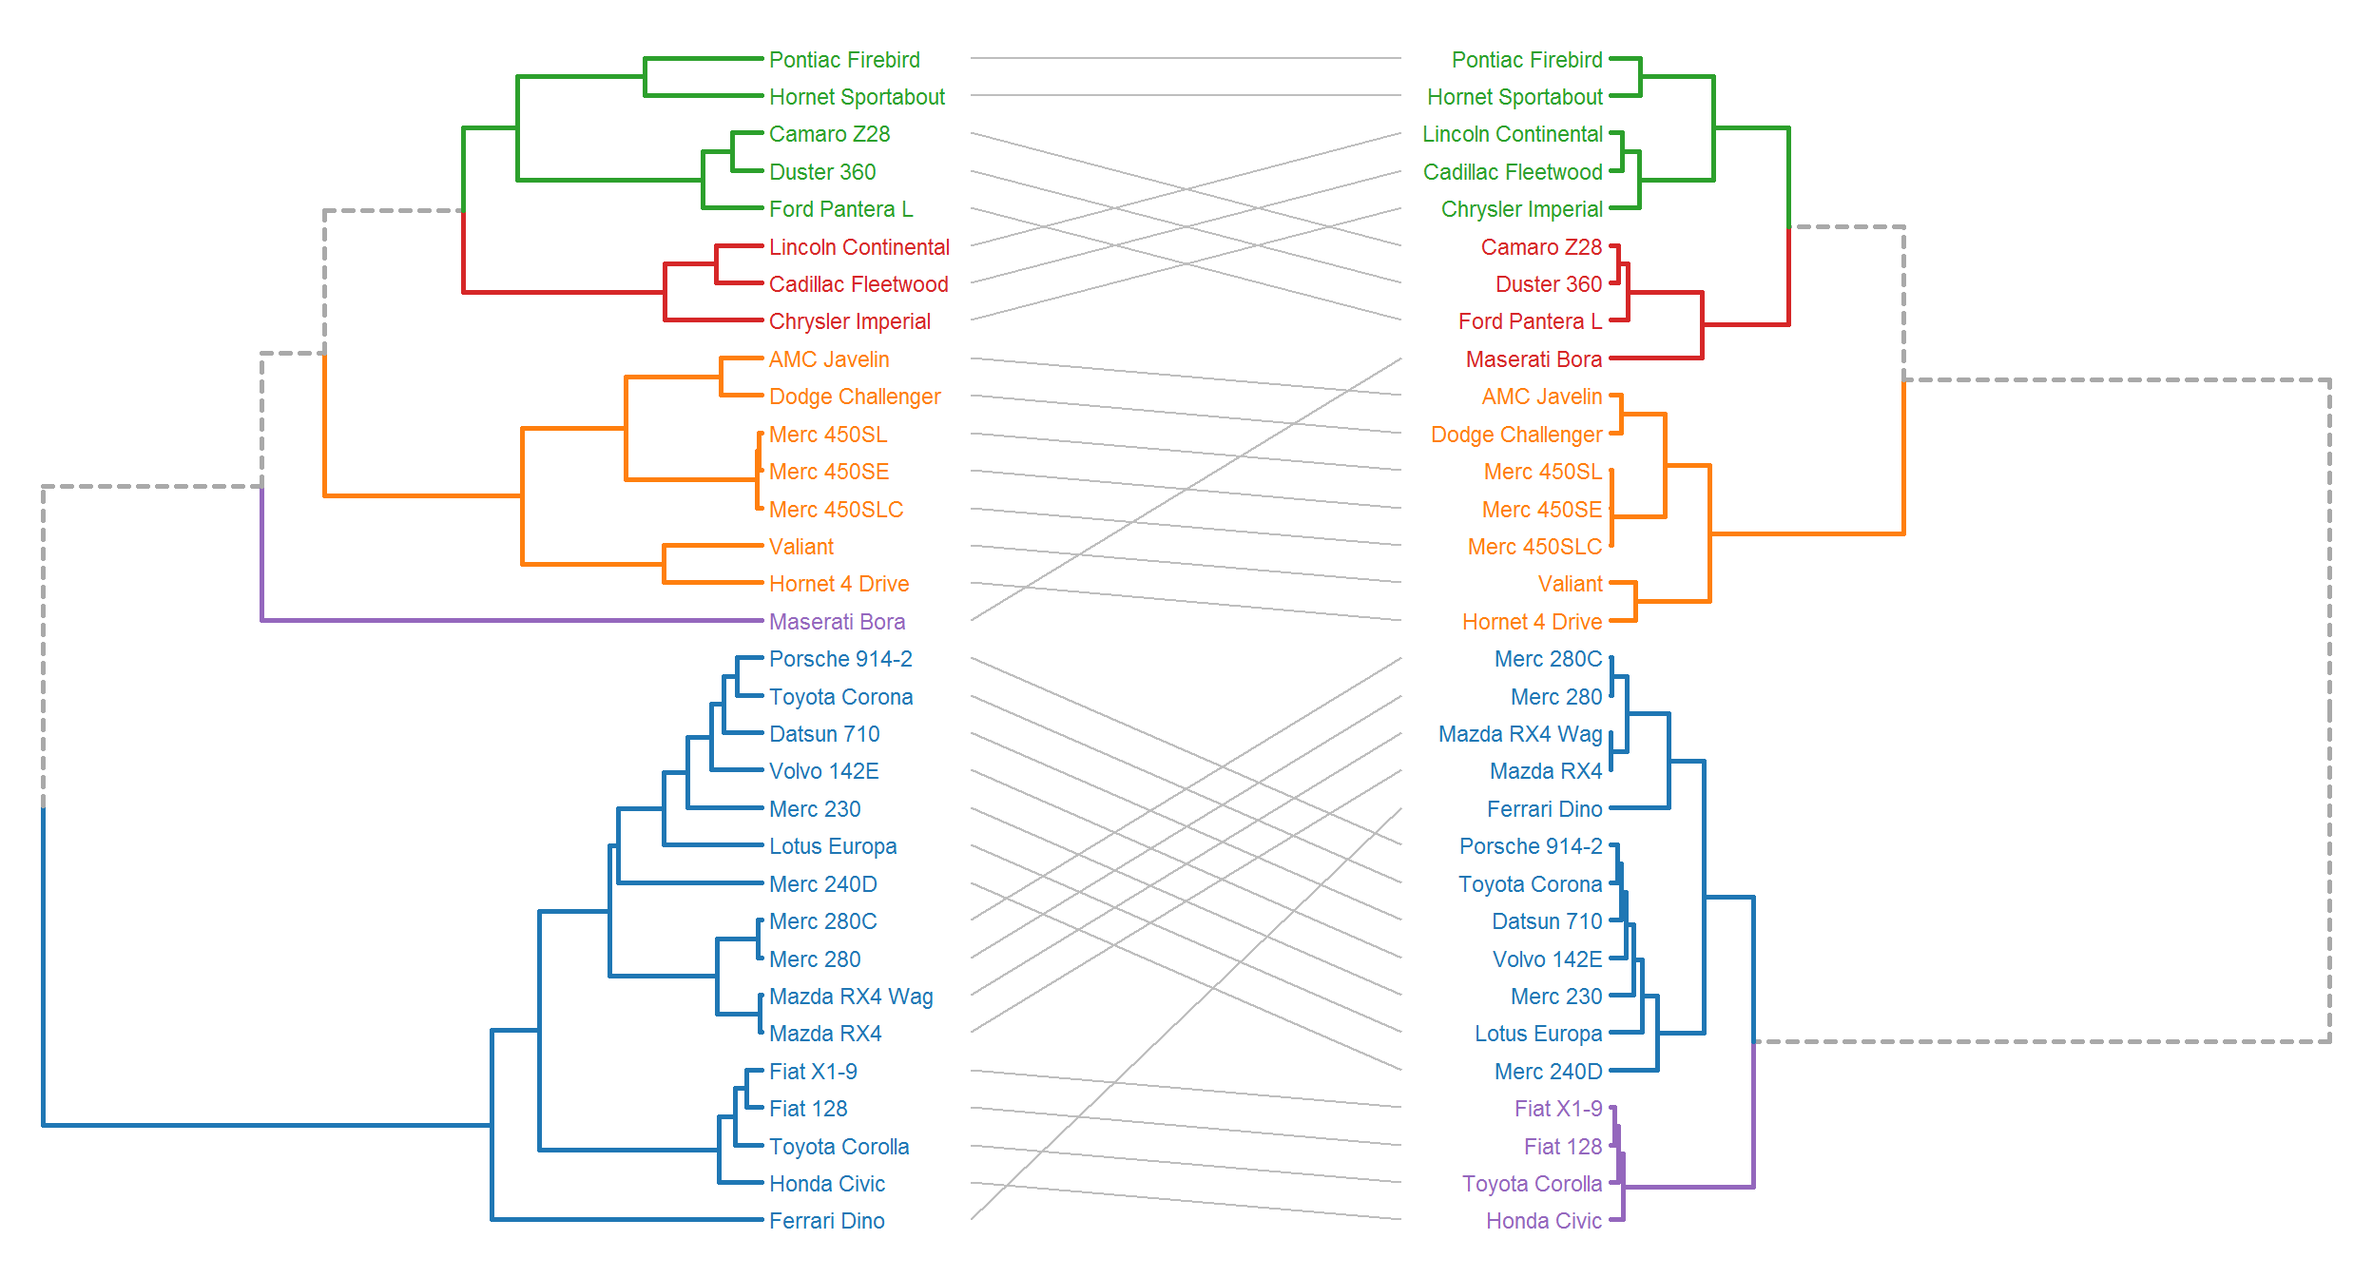
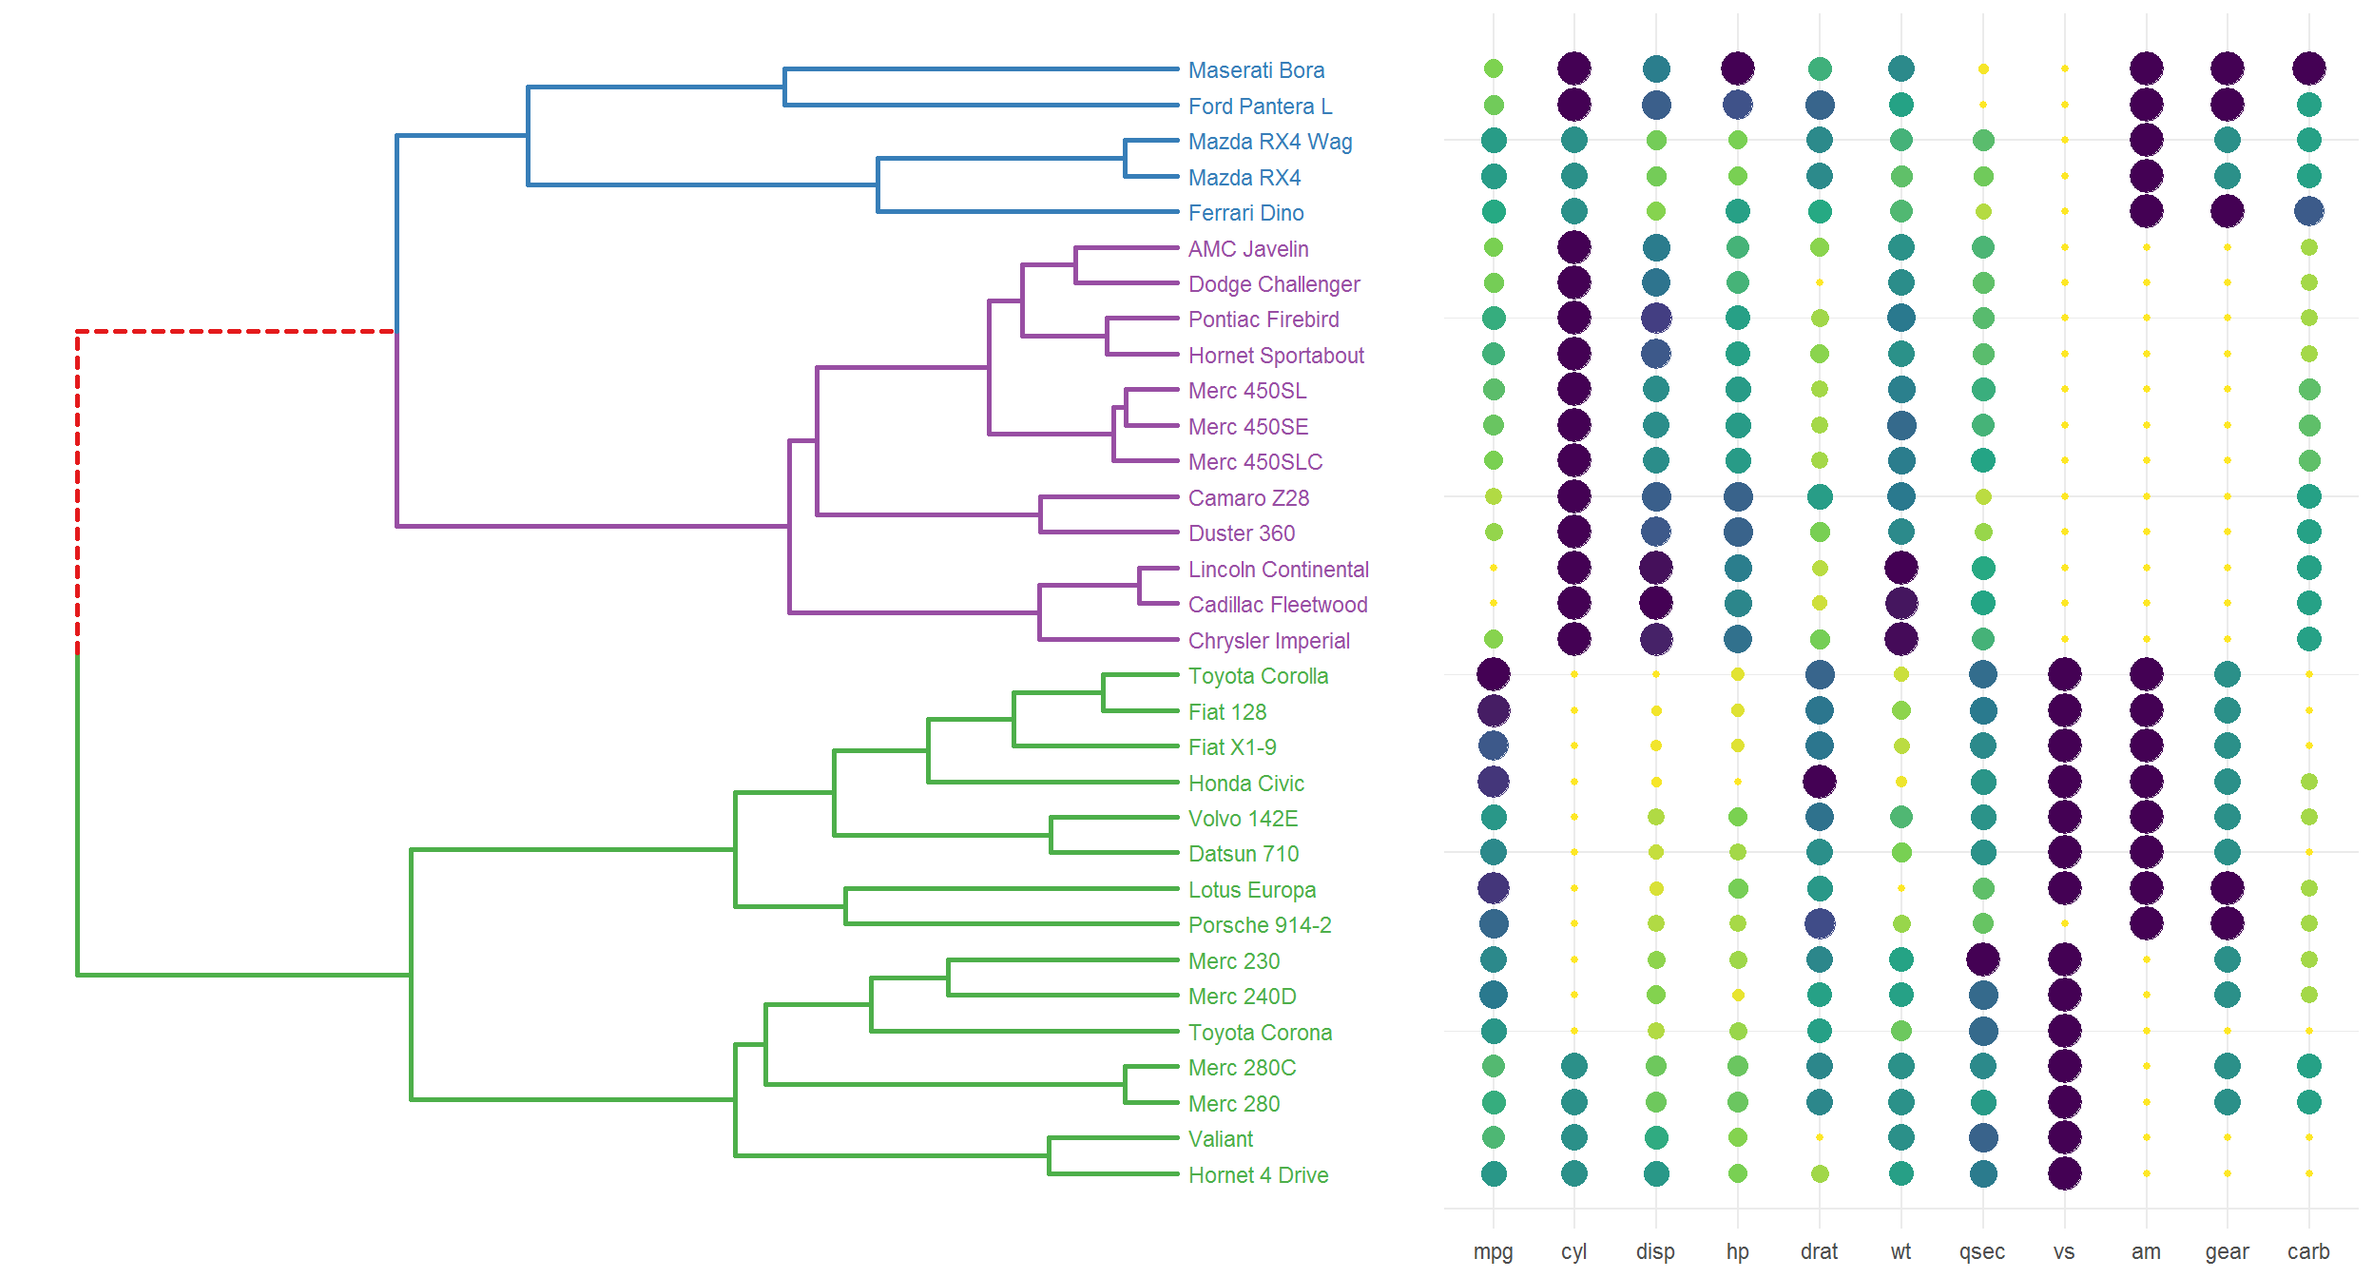
Data scaled

diff --git a/post/2019-06-08-lightweight-dendrograms/index.html b/post/2019-06-08-lightweight-dendrograms/index.html
@@ -206,8 +206,9 @@ Things become a bit more complicated if we want to customize the orientation of 
 <div id="basic-dendrogram" class="section level2">
 <h2>Basic dendrogram</h2>
 <p>We are now ready to build a dendrogram. By default, the standard ggplot2 theme is applied.</p>
-<pre class="r"><code>D  &lt;- dist(mtcars)
-hc &lt;- hclust(D)
+<pre class="r"><code>mtc &lt;- scale(mtcars)
+D   &lt;- dist(mtc)
+hc  &lt;- hclust(D)
 
 hcdata &lt;- dendro_data_k(hc, 3)
 
@@ -269,7 +270,7 @@ p &lt;- p + theme_void() + mytheme
 
 p + geom_point(data     = mtcars, 
                aes(x    = match(rownames(mtcars), hcdata$labels$label),
-                   y    = -30,
+                   y    = -0.7,
                    fill = as.factor(cyl)),
                size     = 5,
                shape    = 21,
@@ -277,7 +278,7 @@ p + geom_point(data     = mtcars,
   scale_fill_manual(values = c(&quot;white&quot;, &quot;yellow&quot;, &quot;red&quot;)) +
   geom_text(data      = mtcars, 
             aes(x     = match(rownames(mtcars), hcdata$labels$label),
-                y     = -30,
+                y     = -0.7,
                 label = cyl),
             size = 3)</code></pre>
 <p><img src="/post/2019-06-08-lightweight-dendrograms_files/figure-html/unnamed-chunk-9-1.png" width="768" /></p>
@@ -285,55 +286,46 @@ p + geom_point(data     = mtcars,
 <p>Combining multiple plots, with gridExtra for example, we can easily make tanglegrams.</p>
 <pre class="r"><code>library(gridExtra)
 
-tanglegram &lt;- function(hcdata1, hcdata2, cols){
-  
-  p1 &lt;- plot_ggdendro(hcdata1,
-                      direction   = &quot;lr&quot;,
-                      scale.color = cols,
-                      expand.y    = 0.2) +
-    theme_void()
-  p2 &lt;- plot_ggdendro(hcdata2,
-                      direction   = &quot;rl&quot;,
-                      scale.color = cols,
-                      expand.y    = 0.2) +
-    theme_void()
-  
-  idx &lt;- data.frame(y1 = 1:nrow(hcdata1$labels),
-                    y2 = match(hcdata1$labels$label, hcdata2$labels$label))
-  p3 &lt;- ggplot() +
-    geom_segment(data     = idx, 
-                 aes(x    = 0,
-                     y    = y1,
-                     xend = 1,
-                     yend = y2),
-                 color    = &quot;grey&quot;) +
-    theme_void()
-  
-  grid.arrange(p1, p3, p2, ncol = 3, widths = c(2, 1, 2))
-}
-
-D       &lt;- dist(mtcars)
+mtc     &lt;- scale(mtcars)
+D       &lt;- dist(mtc)
 hc1     &lt;- hclust(D, &quot;average&quot;)
 hc2     &lt;- hclust(D, &quot;ward.D2&quot;)
 hcdata1 &lt;- dendro_data_k(hc1, 5)
 hcdata2 &lt;- dendro_data_k(hc2, 5)
-cols    &lt;- c(&quot;#a9a9a9&quot;, &quot;#1f77b4&quot;, &quot;#ff7f0e&quot;, &quot;#2ca02c&quot;, &quot;#d62728&quot;, &quot;#9467bd&quot;)</code></pre>
-<pre class="r"><code>tanglegram(hcdata1, hcdata2, cols)</code></pre>
-<p><img src="/post/2019-06-08-lightweight-dendrograms_files/figure-html/unnamed-chunk-11-1.png" width="1248" />
-The <a href="https://cran.r-project.org/web/packages/gclus/">gclus</a> package can be used to reorder the hclust objects, facilitating the comparison.</p>
-<pre class="r"><code>library(gclus)
+cols    &lt;- c(&quot;#a9a9a9&quot;, &quot;#1f77b4&quot;, &quot;#ff7f0e&quot;, &quot;#2ca02c&quot;, &quot;#d62728&quot;, &quot;#9467bd&quot;)
 
-hcdata3 &lt;- dendro_data_k(reorder(hc1, dis = D), 5)
-hcdata4 &lt;- dendro_data_k(reorder(hc2, dis = D), 5)
+p1 &lt;- plot_ggdendro(hcdata1,
+                    direction   = &quot;lr&quot;,
+                    scale.color = cols,
+                    expand.y    = 0.2) +
+  theme_void()
 
-tanglegram(hcdata3, hcdata4, cols)</code></pre>
-<p><img src="/post/2019-06-08-lightweight-dendrograms_files/figure-html/unnamed-chunk-12-1.png" width="1248" /></p>
+p2 &lt;- plot_ggdendro(hcdata2,
+                    direction   = &quot;rl&quot;,
+                    scale.color = cols,
+                    expand.y    = 0.2) +
+  theme_void()
+
+idx &lt;- data.frame(y1 = 1:nrow(hcdata1$labels),
+                  y2 = match(hcdata1$labels$label, hcdata2$labels$label))
+
+p3 &lt;- ggplot() +
+  geom_segment(data     = idx, 
+               aes(x    = 0,
+                   y    = y1,
+                   xend = 1,
+                   yend = y2),
+               color    = &quot;grey&quot;) +
+  theme_void()
+  
+grid.arrange(p1, p3, p2, ncol = 3, widths = c(2, 1, 2))</code></pre>
+<p><img src="/post/2019-06-08-lightweight-dendrograms_files/figure-html/unnamed-chunk-10-1.png" width="1248" /></p>
 <p><br></p>
-<p>A last example, with a dendrogram and a ‘kind of bubblemap’. I think adding a size encoding helps to better get the structure of the data compared to a standard heatmap. In the mtcars dataset, the variables have different units, but here, the goal is simply to highlight low or high values.</p>
+<p>A last example, with a dendrogram and a ‘kind of bubblemap’. I think adding a size encoding helps to better get the structure of the data compared to a standard heatmap. In the mtc dataset, the variables have different units, but here, the goal is simply to highlight low or high values.</p>
 <pre class="r"><code>library(data.table)
 
-D      &lt;- dist(mtcars)
-hc     &lt;- reorder(hclust(D), dis = D)
+mtc    &lt;- scale(mtcars)
+D      &lt;- dist(mtc)
 hcdata &lt;- dendro_data_k(hc, 3)
 
 p1 &lt;- plot_ggdendro(hcdata,
@@ -347,7 +339,7 @@ p1 &lt;- plot_ggdendro(hcdata,
   xlab(NULL) +
   ylab(NULL)
 
-# scale and reshape mtcars data
+# scale from 0 to 1 and reshape mtcars data
 scaled &lt;- setDT(lapply(mtcars, scales::rescale))
 melted &lt;- melt(scaled, measure.vars = colnames(mtcars))
 melted[, variable := as.factor(variable)]
@@ -368,7 +360,7 @@ p2 &lt;- ggplot(melted) +
   ylab(NULL)
 
 grid.arrange(p1, p2, ncol = 2, widths = 3:2)</code></pre>
-<p><img src="/post/2019-06-08-lightweight-dendrograms_files/figure-html/unnamed-chunk-13-1.png" width="1248" /></p>
+<p><img src="/post/2019-06-08-lightweight-dendrograms_files/figure-html/unnamed-chunk-11-1.png" width="1248" /></p>
 <p><br></p>
 </div>
 <div id="conclusion" class="section level2">
@@ -391,14 +383,13 @@ grid.arrange(p1, p2, ncol = 2, widths = 3:2)</code></pre>
 ## [1] methods   stats     graphics  grDevices utils     datasets  base     
 ## 
 ## other attached packages:
-## [1] gclus_1.3.1       cluster_2.0.7-1   gridExtra_2.3     ggplot2_3.1.0    
-## [5] ggdendro_0.1-20   data.table_1.12.3
+## [1] gridExtra_2.3     ggplot2_3.1.0     ggdendro_0.1-20   data.table_1.12.3
 ## 
 ## loaded via a namespace (and not attached):
-##  [1] Rcpp_1.0.0         RColorBrewer_1.1-2 pillar_1.3.1      
+##  [1] Rcpp_1.0.0         pillar_1.3.1       RColorBrewer_1.1-2
 ##  [4] plyr_1.8.4         tools_3.3.2        digest_0.6.18     
-##  [7] viridisLite_0.3.0  evaluate_0.12      tibble_2.0.1      
-## [10] gtable_0.2.0       pkgconfig_2.0.2    rlang_0.3.1       
+##  [7] evaluate_0.12      tibble_2.0.1       gtable_0.2.0      
+## [10] viridisLite_0.3.0  pkgconfig_2.0.2    rlang_0.3.1       
 ## [13] yaml_2.2.0         blogdown_0.10      xfun_0.4.11       
 ## [16] withr_2.1.2        stringr_1.3.1      dplyr_0.8.0.1     
 ## [19] knitr_1.21         grid_3.3.2         tidyselect_0.2.5  
@@ -424,7 +415,7 @@ grid.arrange(p1, p2, ncol = 2, widths = 3:2)</code></pre>
 
         		<footer>
 			<span>
-			&copy; <time datetime="2019-06-11 19:09:48.4746001 &#43;0200 CEST m=&#43;0.160200001">2019</time> . Made with <a href='https://gohugo.io'>Hugo</a> using the <a href='https://github.com/EmielH/tale-hugo/'>Tale</a> theme and the <a href='https://bookdown.org/yihui/blogdown/'>blogdown</a> R package.
+			&copy; <time datetime="2019-06-11 22:33:38.7036505 &#43;0200 CEST m=&#43;0.093000001">2019</time> . Made with <a href='https://gohugo.io'>Hugo</a> using the <a href='https://github.com/EmielH/tale-hugo/'>Tale</a> theme and the <a href='https://bookdown.org/yihui/blogdown/'>blogdown</a> R package.
 			</span>
 		</footer>
 

diff --git a/post/2019-03-03-datatable-dplyr/index.html b/post/2019-03-03-datatable-dplyr/index.html
@@ -4420,7 +4420,7 @@ Hopefully, this comparison is not too biased, but I must admit that my preferenc
 
         		<footer>
 			<span>
-			&copy; <time datetime="2019-06-11 19:09:48.4966001 &#43;0200 CEST m=&#43;0.182200001">2019</time> . Made with <a href='https://gohugo.io'>Hugo</a> using the <a href='https://github.com/EmielH/tale-hugo/'>Tale</a> theme and the <a href='https://bookdown.org/yihui/blogdown/'>blogdown</a> R package.
+			&copy; <time datetime="2019-06-11 22:33:38.7066505 &#43;0200 CEST m=&#43;0.096000001">2019</time> . Made with <a href='https://gohugo.io'>Hugo</a> using the <a href='https://github.com/EmielH/tale-hugo/'>Tale</a> theme and the <a href='https://bookdown.org/yihui/blogdown/'>blogdown</a> R package.
 			</span>
 		</footer>
 

diff --git a/post/2019-01-15-2018-learning/index.html b/post/2019-01-15-2018-learning/index.html
@@ -170,7 +170,7 @@ As said by <a href="https://www.norvig.com/21-days.html">Peter Norvig</a>, being
 
         		<footer>
 			<span>
-			&copy; <time datetime="2019-06-11 19:09:48.4786001 &#43;0200 CEST m=&#43;0.164200001">2019</time> . Made with <a href='https://gohugo.io'>Hugo</a> using the <a href='https://github.com/EmielH/tale-hugo/'>Tale</a> theme and the <a href='https://bookdown.org/yihui/blogdown/'>blogdown</a> R package.
+			&copy; <time datetime="2019-06-11 22:33:38.7046505 &#43;0200 CEST m=&#43;0.094000001">2019</time> . Made with <a href='https://gohugo.io'>Hugo</a> using the <a href='https://github.com/EmielH/tale-hugo/'>Tale</a> theme and the <a href='https://bookdown.org/yihui/blogdown/'>blogdown</a> R package.
 			</span>
 		</footer>
 

diff --git a/post/2019-05-18-images-to-ridges/index.html b/post/2019-05-18-images-to-ridges/index.html
@@ -360,7 +360,7 @@ file.remove(&quot;tmp.jpg&quot;)</code></pre>
 
         		<footer>
 			<span>
-			&copy; <time datetime="2019-06-11 19:09:48.4716001 &#43;0200 CEST m=&#43;0.157200001">2019</time> . Made with <a href='https://gohugo.io'>Hugo</a> using the <a href='https://github.com/EmielH/tale-hugo/'>Tale</a> theme and the <a href='https://bookdown.org/yihui/blogdown/'>blogdown</a> R package.
+			&copy; <time datetime="2019-06-11 22:33:38.7066505 &#43;0200 CEST m=&#43;0.096000001">2019</time> . Made with <a href='https://gohugo.io'>Hugo</a> using the <a href='https://github.com/EmielH/tale-hugo/'>Tale</a> theme and the <a href='https://bookdown.org/yihui/blogdown/'>blogdown</a> R package.
 			</span>
 		</footer>
 

diff --git a/categories/r/index.html b/categories/r/index.html
@@ -111,7 +111,7 @@
 
         		<footer>
 			<span>
-			&copy; <time datetime="2019-06-11 19:09:48.4906001 &#43;0200 CEST m=&#43;0.176200001">2019</time> . Made with <a href='https://gohugo.io'>Hugo</a> using the <a href='https://github.com/EmielH/tale-hugo/'>Tale</a> theme and the <a href='https://bookdown.org/yihui/blogdown/'>blogdown</a> R package.
+			&copy; <time datetime="2019-06-11 22:33:38.7226505 &#43;0200 CEST m=&#43;0.112000001">2019</time> . Made with <a href='https://gohugo.io'>Hugo</a> using the <a href='https://github.com/EmielH/tale-hugo/'>Tale</a> theme and the <a href='https://bookdown.org/yihui/blogdown/'>blogdown</a> R package.
 			</span>
 		</footer>
 

diff --git a/index.html b/index.html
@@ -115,7 +115,7 @@
 
         		<footer>
 			<span>
-			&copy; <time datetime="2019-06-11 19:09:48.4846001 &#43;0200 CEST m=&#43;0.170200001">2019</time> . Made with <a href='https://gohugo.io'>Hugo</a> using the <a href='https://github.com/EmielH/tale-hugo/'>Tale</a> theme and the <a href='https://bookdown.org/yihui/blogdown/'>blogdown</a> R package.
+			&copy; <time datetime="2019-06-11 22:33:38.7116505 &#43;0200 CEST m=&#43;0.101000001">2019</time> . Made with <a href='https://gohugo.io'>Hugo</a> using the <a href='https://github.com/EmielH/tale-hugo/'>Tale</a> theme and the <a href='https://bookdown.org/yihui/blogdown/'>blogdown</a> R package.
 			</span>
 		</footer>
 

diff --git a/post/index.html b/post/index.html
@@ -110,7 +110,7 @@
 
         		<footer>
 			<span>
-			&copy; <time datetime="2019-06-11 19:09:48.4876001 &#43;0200 CEST m=&#43;0.173200001">2019</time> . Made with <a href='https://gohugo.io'>Hugo</a> using the <a href='https://github.com/EmielH/tale-hugo/'>Tale</a> theme and the <a href='https://bookdown.org/yihui/blogdown/'>blogdown</a> R package.
+			&copy; <time datetime="2019-06-11 22:33:38.7196505 &#43;0200 CEST m=&#43;0.109000001">2019</time> . Made with <a href='https://gohugo.io'>Hugo</a> using the <a href='https://github.com/EmielH/tale-hugo/'>Tale</a> theme and the <a href='https://bookdown.org/yihui/blogdown/'>blogdown</a> R package.
 			</span>
 		</footer>
 

diff --git a/tags/r/index.html b/tags/r/index.html
@@ -111,7 +111,7 @@
 
         		<footer>
 			<span>
-			&copy; <time datetime="2019-06-11 19:09:48.4886001 &#43;0200 CEST m=&#43;0.174200001">2019</time> . Made with <a href='https://gohugo.io'>Hugo</a> using the <a href='https://github.com/EmielH/tale-hugo/'>Tale</a> theme and the <a href='https://bookdown.org/yihui/blogdown/'>blogdown</a> R package.
+			&copy; <time datetime="2019-06-11 22:33:38.7306505 &#43;0200 CEST m=&#43;0.120000001">2019</time> . Made with <a href='https://gohugo.io'>Hugo</a> using the <a href='https://github.com/EmielH/tale-hugo/'>Tale</a> theme and the <a href='https://bookdown.org/yihui/blogdown/'>blogdown</a> R package.
 			</span>
 		</footer>
 

diff --git a/about/index.html b/about/index.html
@@ -57,7 +57,7 @@
 
         		<footer>
 			<span>
-			&copy; <time datetime="2019-06-11 19:09:48.4746001 &#43;0200 CEST m=&#43;0.160200001">2019</time> . Made with <a href='https://gohugo.io'>Hugo</a> using the <a href='https://github.com/EmielH/tale-hugo/'>Tale</a> theme and the <a href='https://bookdown.org/yihui/blogdown/'>blogdown</a> R package.
+			&copy; <time datetime="2019-06-11 22:33:38.7056505 &#43;0200 CEST m=&#43;0.095000001">2019</time> . Made with <a href='https://gohugo.io'>Hugo</a> using the <a href='https://github.com/EmielH/tale-hugo/'>Tale</a> theme and the <a href='https://bookdown.org/yihui/blogdown/'>blogdown</a> R package.
 			</span>
 		</footer>
 

diff --git a/categories/index.html b/categories/index.html
@@ -54,7 +54,7 @@
 
         		<footer>
 			<span>
-			&copy; <time datetime="2019-06-11 19:09:48.4816001 &#43;0200 CEST m=&#43;0.167200001">2019</time> . Made with <a href='https://gohugo.io'>Hugo</a> using the <a href='https://github.com/EmielH/tale-hugo/'>Tale</a> theme and the <a href='https://bookdown.org/yihui/blogdown/'>blogdown</a> R package.
+			&copy; <time datetime="2019-06-11 22:33:38.7116505 &#43;0200 CEST m=&#43;0.101000001">2019</time> . Made with <a href='https://gohugo.io'>Hugo</a> using the <a href='https://github.com/EmielH/tale-hugo/'>Tale</a> theme and the <a href='https://bookdown.org/yihui/blogdown/'>blogdown</a> R package.
 			</span>
 		</footer>
 

diff --git a/categories/visualization/index.html b/categories/visualization/index.html
@@ -72,7 +72,7 @@
 
         		<footer>
 			<span>
-			&copy; <time datetime="2019-06-11 19:09:48.4936001 &#43;0200 CEST m=&#43;0.179200001">2019</time> . Made with <a href='https://gohugo.io'>Hugo</a> using the <a href='https://github.com/EmielH/tale-hugo/'>Tale</a> theme and the <a href='https://bookdown.org/yihui/blogdown/'>blogdown</a> R package.
+			&copy; <time datetime="2019-06-11 22:33:38.7286505 &#43;0200 CEST m=&#43;0.118000001">2019</time> . Made with <a href='https://gohugo.io'>Hugo</a> using the <a href='https://github.com/EmielH/tale-hugo/'>Tale</a> theme and the <a href='https://bookdown.org/yihui/blogdown/'>blogdown</a> R package.
 			</span>
 		</footer>
 

diff --git a/tags/data.table/index.html b/tags/data.table/index.html
@@ -72,7 +72,7 @@
 
         		<footer>
 			<span>
-			&copy; <time datetime="2019-06-11 19:09:48.4796001 &#43;0200 CEST m=&#43;0.165200001">2019</time> . Made with <a href='https://gohugo.io'>Hugo</a> using the <a href='https://github.com/EmielH/tale-hugo/'>Tale</a> theme and the <a href='https://bookdown.org/yihui/blogdown/'>blogdown</a> R package.
+			&copy; <time datetime="2019-06-11 22:33:38.7106505 &#43;0200 CEST m=&#43;0.100000001">2019</time> . Made with <a href='https://gohugo.io'>Hugo</a> using the <a href='https://github.com/EmielH/tale-hugo/'>Tale</a> theme and the <a href='https://bookdown.org/yihui/blogdown/'>blogdown</a> R package.
 			</span>
 		</footer>
 
